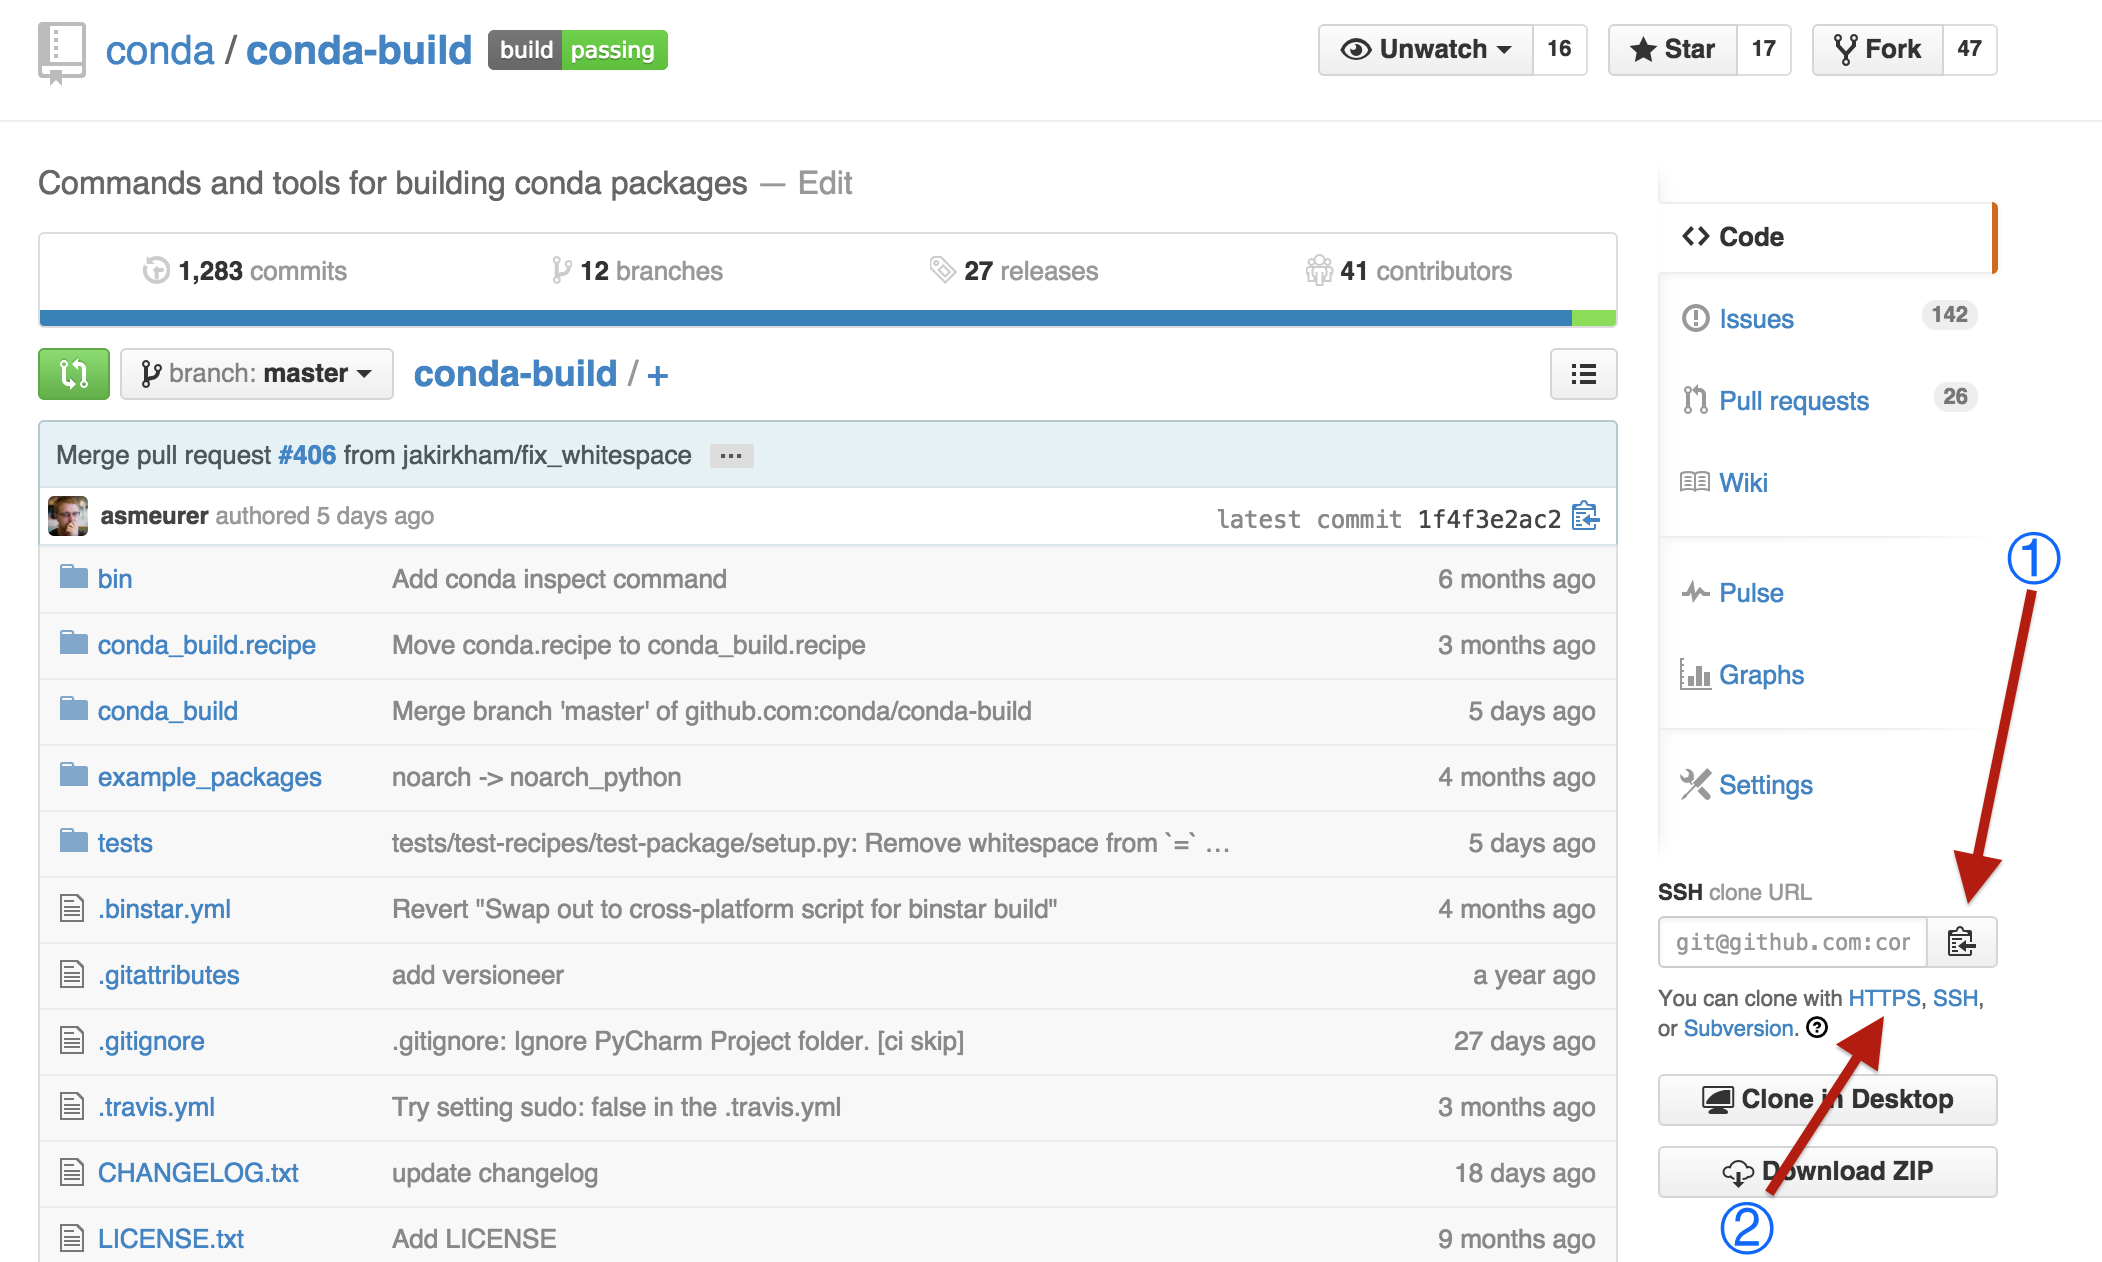
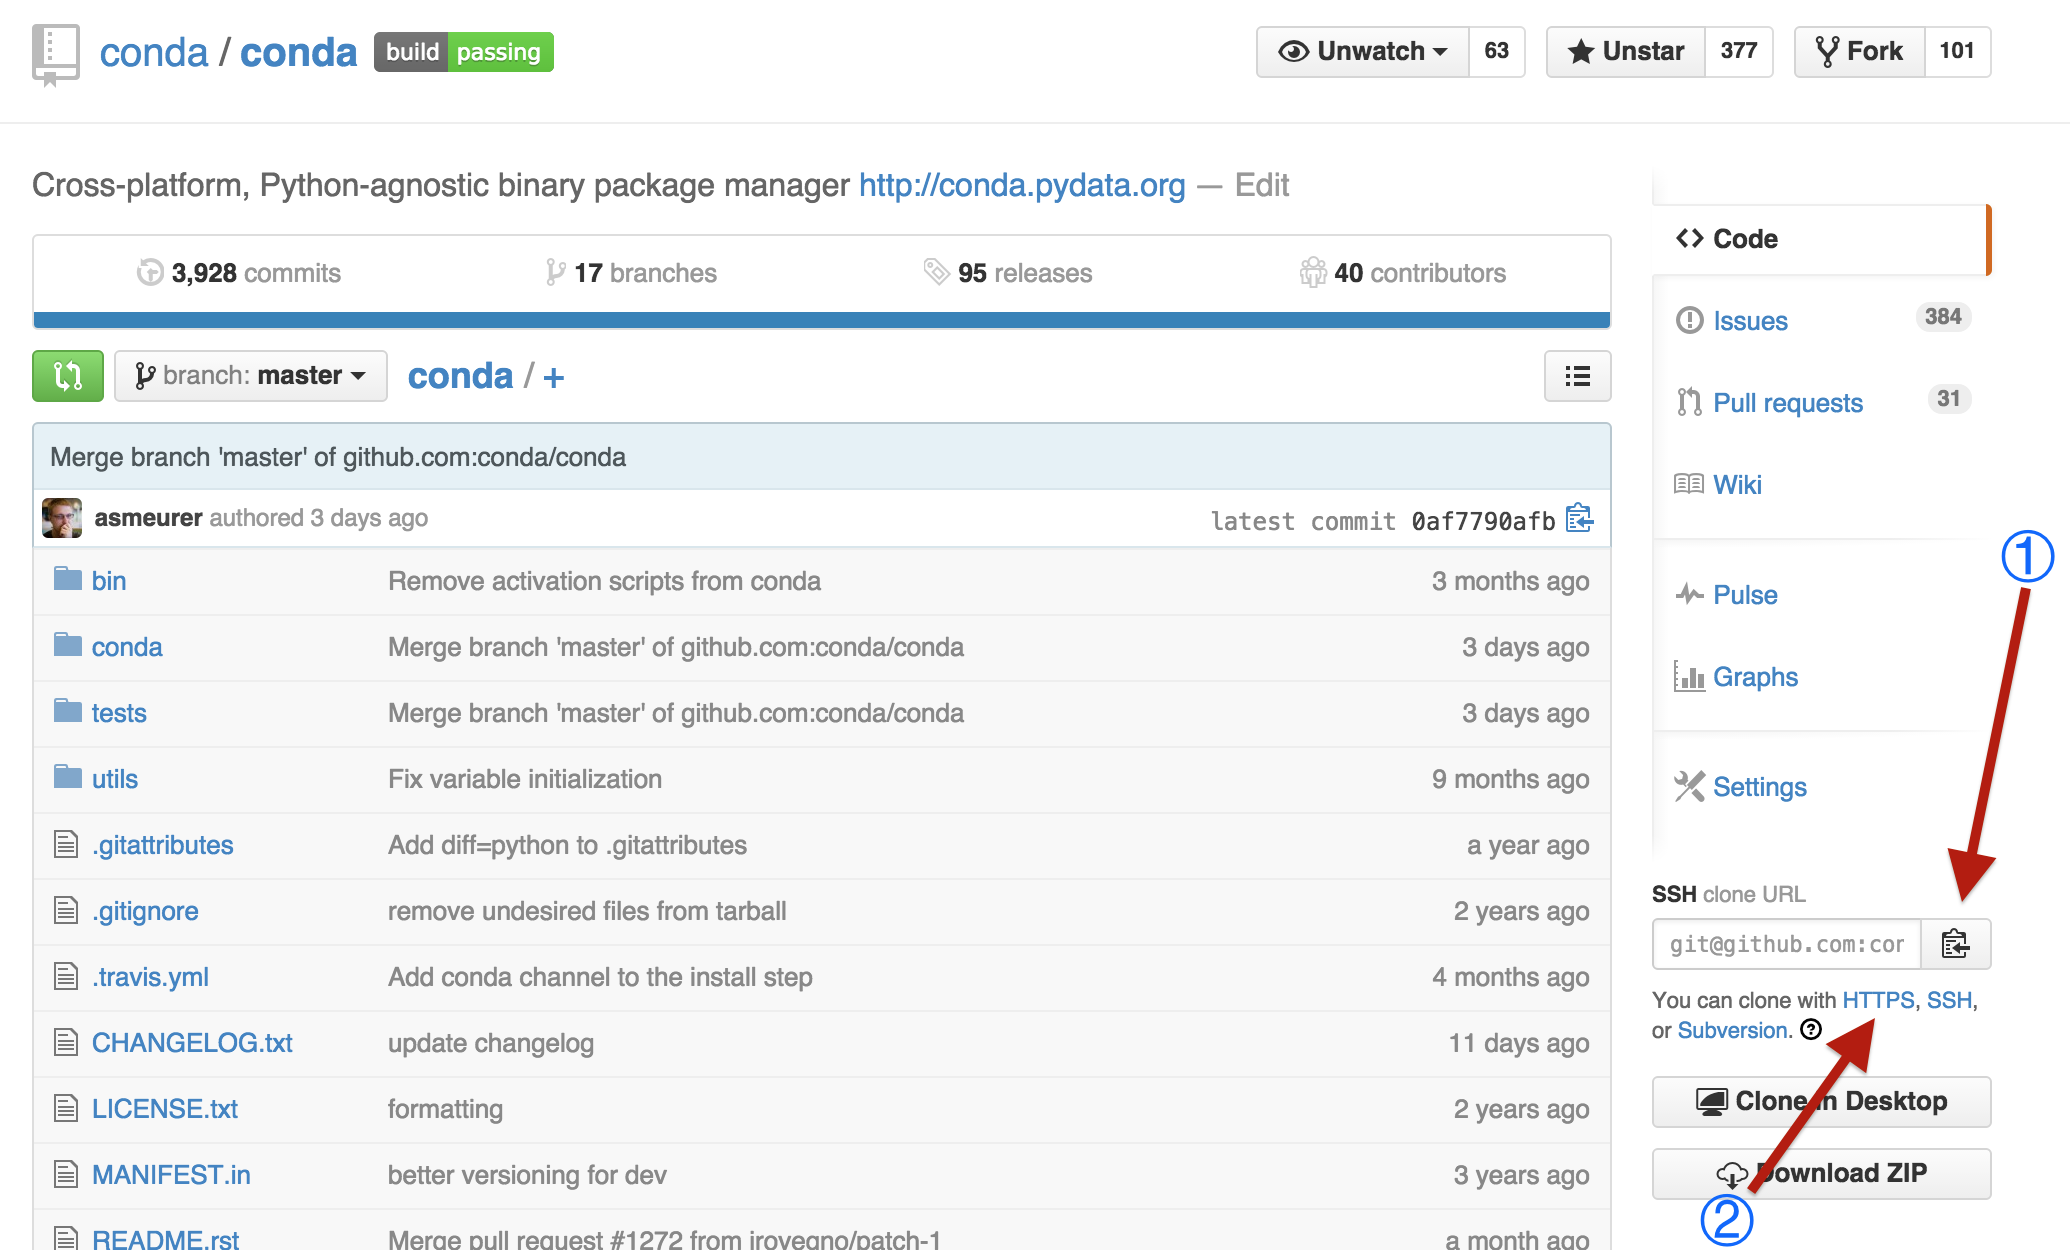
Use conda, not conda-build

diff --git a/README.md b/README.md
@@ -25,10 +25,10 @@ repeat them for that repository.**
 1. Clone the repository. Copy the url ① and type, in this case
 
    ```
-   git clone git@github.com:conda/conda-build.git
+   git clone git@github.com:conda/conda.git
    ```
 
    at the terminal. If you have not set up your ssh keys with GitHub, use the
-   https url ②.
+   https url by first clicking the `https` button ②.
 
    ![clone.png](clone.png)
